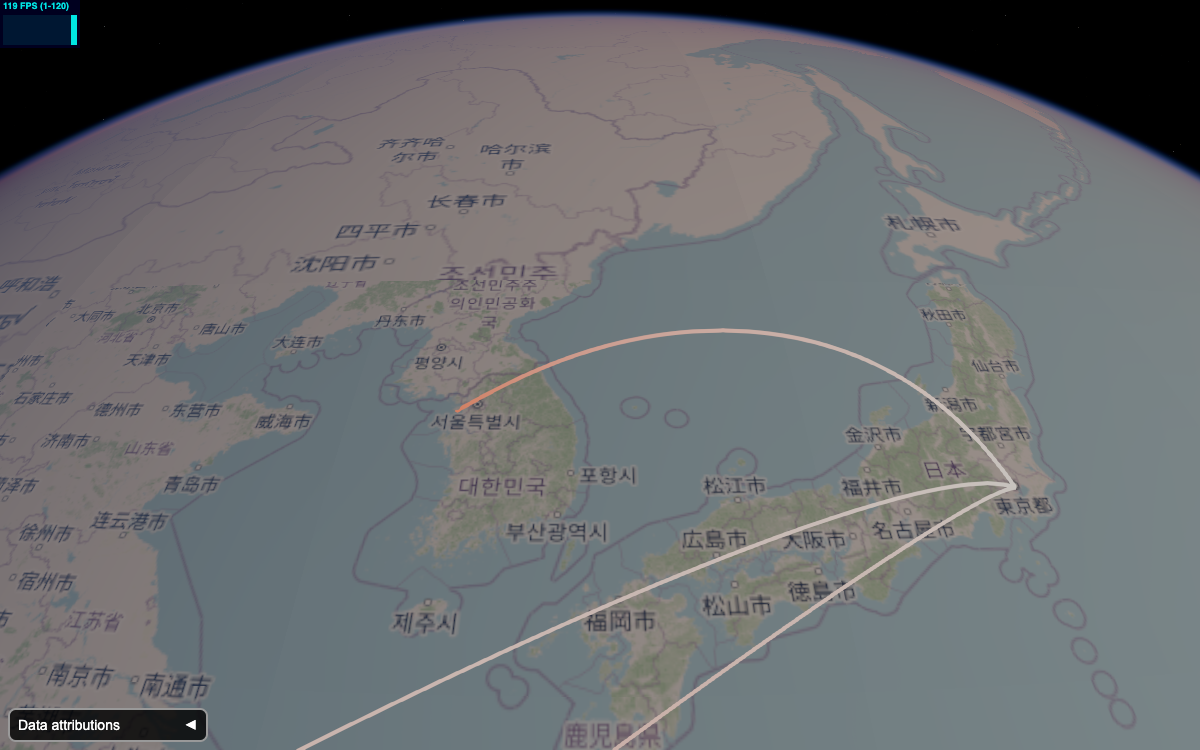
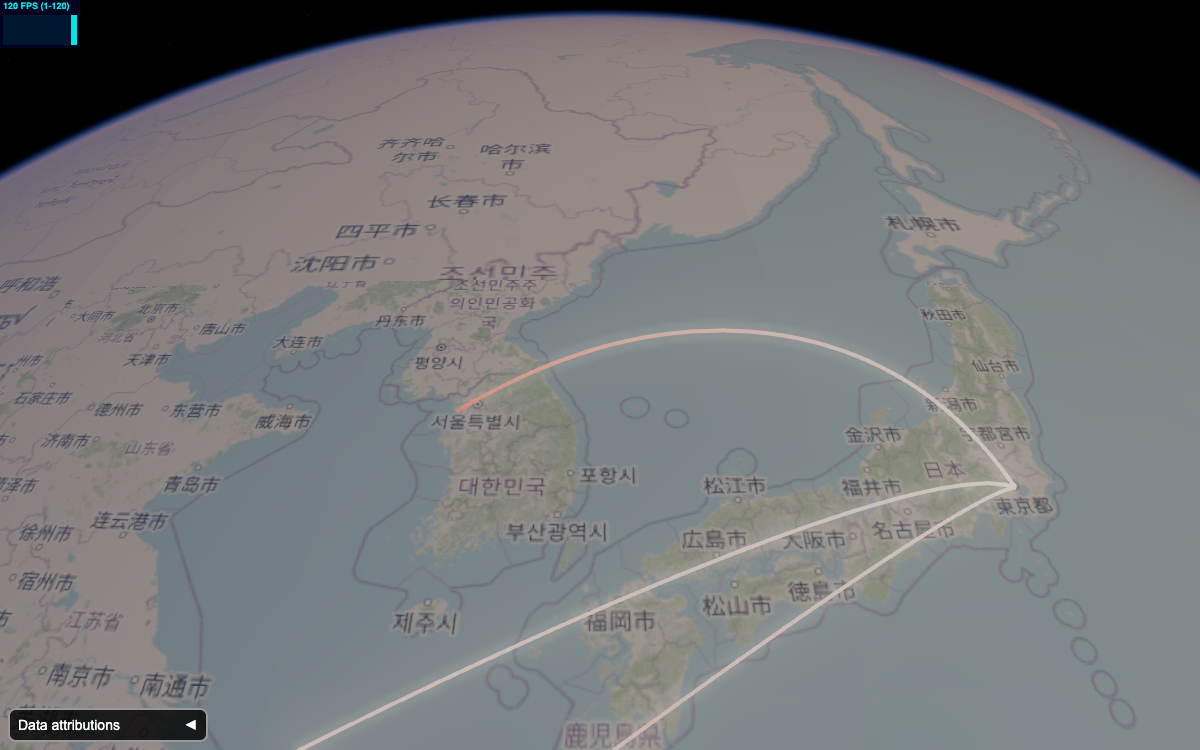
feat: add SelectiveEffect support to ArcLine mesh layer
ArcLine is an Object3D with multiple child ShaderMaterial meshes, so
it cannot use the base class's single-Mesh SE pipeline. Overrides
updateEffectIdsMask() to traverse sub-meshes and manages SE defines/
uniforms directly on each child material.

diff --git a/web/navara_three_default_layers/src/meshes/ArclineMeshLayer.ts b/web/navara_three_default_layers/src/meshes/ArclineMeshLayer.ts
@@ -1,7 +1,8 @@
 import {
-  MeshLayerDeclaration,
-  type MeshLayerConfig,
-  type MeshLayerUpdate,
+  Color,
+  MeshLayerDeclarationWithSelectiveEffect,
+  type MeshLayerConfigWithSelectiveEffect,
+  type MeshLayerUpdateWithSelectiveEffect,
   type ViewContext,
 } from "@navara/three";
 
@@ -9,14 +10,17 @@ import { DefaultArcLineConfig, ArcLine, type ArcLineConfig } from "./arcLine";
 
 type LayerDescription = {
   arcLines?: Partial<ArcLineConfig> | Partial<ArcLineConfig>[];
+  emissiveColor?: Color;
+  emissiveIntensity?: number;
 };
 
-export type ArclineMeshLayerConfig = MeshLayerConfig & LayerDescription;
+export type ArclineMeshLayerConfig = MeshLayerConfigWithSelectiveEffect &
+  LayerDescription;
 
-export type ArclineMeshLayerUpdate = MeshLayerUpdate & LayerDescription;
+export type ArclineMeshLayerUpdate = MeshLayerUpdateWithSelectiveEffect &
+  LayerDescription;
 
-// TODO: SelectiveEffect not supported. ArcLine is Object3D with child Meshes; requires child traversal in a follow-up PR.
-export class ArclineMeshLayer extends MeshLayerDeclaration<
+export class ArclineMeshLayer extends MeshLayerDeclarationWithSelectiveEffect<
   ArclineMeshLayerConfig,
   ArclineMeshLayerUpdate,
   ArcLine
@@ -60,7 +64,18 @@ export class ArclineMeshLayer extends MeshLayerDeclaration<
       }
     }
 
-    return new ArcLine(lineConfig);
+    const arcLine = new ArcLine(lineConfig);
+
+    // Enable SelectiveEffect on all sub-meshes if effectIds are configured
+    if (this.config.effectIds && this.config.effectIds.length > 0) {
+      arcLine.setupSelectiveEffect();
+      arcLine.updateEmissive(
+        this.config.emissiveColor?.toHex() ?? 0,
+        this.config.emissiveIntensity ?? 0,
+      );
+    }
+
+    return arcLine;
   }
 
   onUpdateConfig(updates: ArclineMeshLayerUpdate): void {
@@ -88,7 +103,36 @@ export class ArclineMeshLayer extends MeshLayerDeclaration<
       this.emit("needsUpdate");
     }
 
+    // Update emissive properties
+    if (this._instance) {
+      if (updates.emissiveColor !== undefined) {
+        this.config.emissiveColor = updates.emissiveColor;
+      }
+      if (updates.emissiveIntensity !== undefined) {
+        this.config.emissiveIntensity = updates.emissiveIntensity;
+      }
+      if (
+        updates.emissiveColor !== undefined ||
+        updates.emissiveIntensity !== undefined
+      ) {
+        this._instance.updateEmissive(
+          this.config.emissiveColor?.toHex() ?? 0,
+          this.config.emissiveIntensity ?? 0,
+        );
+      }
+    }
+
     super.onUpdateConfig(updates);
+  }
+
+  /**
+   * Override to update effectIdsMask on all ArcLine sub-meshes.
+   * ArcLine is Object3D with child Meshes, so the base class's
+   * single-Mesh update doesn't work.
+   */
+  protected override updateEffectIdsMask(): void {
+    const mask = this.computeEffectIdsMask();
+    this._instance?.updateEffectIdsMask(mask);
   }
 
   onResize(width: number, height: number): void {

diff --git a/web/navara_three_default_layers/src/meshes/arcLine.ts b/web/navara_three_default_layers/src/meshes/arcLine.ts
@@ -86,6 +86,7 @@ export const DefaultArcLineConfig: ArcLineConfig = {
 export class ArcLine extends Object3D {
   private readonly _config: ArcLineConfig[];
   private _subMeshes: Mesh<InstancedBufferGeometry, ShaderMaterial>[] = [];
+  private _selectiveEffectEnabled = false;
 
   // Shared RTE uniforms for all sub-meshes
   private _sharedRTEUniforms = {
@@ -884,6 +885,9 @@ export class ArcLine extends Object3D {
 
       // Create new mesh
       const newMesh = this.createSubMesh(this._config[configIndex]);
+      if (this._selectiveEffectEnabled) {
+        this.setupSelectiveEffectOnMaterial(newMesh.material);
+      }
       this._subMeshes[configIndex] = newMesh;
       this.add(newMesh);
     });
@@ -953,6 +957,58 @@ export class ArcLine extends Object3D {
     this._subMeshes.forEach((mesh) => {
       mesh.material.uniforms?.uViewport.value.set(width, height);
     });
+  }
+
+  /**
+   * Enable SelectiveEffect on all sub-meshes.
+   * Sets USE_SELECTIVE_EFFECT define and uEffectIdsMask uniform on each material.
+   */
+  setupSelectiveEffect(): void {
+    this._selectiveEffectEnabled = true;
+    for (const mesh of this._subMeshes) {
+      this.setupSelectiveEffectOnMaterial(mesh.material);
+    }
+  }
+
+  /**
+   * Update effectIdsMask on all sub-meshes.
+   */
+  updateEffectIdsMask(mask: number): void {
+    for (const mesh of this._subMeshes) {
+      const uniform = mesh.material.uniforms.uEffectIdsMask;
+      if (uniform) {
+        uniform.value = mask;
+      }
+    }
+  }
+
+  /**
+   * Update emissive color and intensity on all sub-meshes.
+   */
+  updateEmissive(color: number, intensity: number): void {
+    for (const mesh of this._subMeshes) {
+      const colorUniform = mesh.material.uniforms.uEmissiveColor;
+      const intensityUniform = mesh.material.uniforms.uEmissiveIntensity;
+      if (colorUniform) {
+        colorUniform.value.set(
+          ((color >> 16) & 0xff) / 255,
+          ((color >> 8) & 0xff) / 255,
+          (color & 0xff) / 255,
+        );
+      }
+      if (intensityUniform) {
+        intensityUniform.value = intensity;
+      }
+    }
+  }
+
+  private setupSelectiveEffectOnMaterial(material: ShaderMaterial): void {
+    material.defines = material.defines ?? {};
+    material.defines.USE_SELECTIVE_EFFECT = 1;
+    material.uniforms.uEffectIdsMask = { value: 0 };
+    material.uniforms.uEmissiveColor = { value: new Vector3(0, 0, 0) };
+    material.uniforms.uEmissiveIntensity = { value: 0 };
+    material.needsUpdate = true;
   }
 
   dispose(): void {

diff --git a/web/navara_three/example/pages/selective-bloom-effect/arcline/main.ts b/web/navara_three/example/pages/selective-bloom-effect/arcline/main.ts
@@ -51,6 +51,8 @@ const run = async () => {
   view.addLayer<ArclineMeshLayer>({
     type: "mesh",
     effectIds: [bloomEffect.id],
+    emissiveColor: new Color().setHex(0xffffff),
+    emissiveIntensity: 0.5,
     arcLines: [
       {
         thickness: 2,